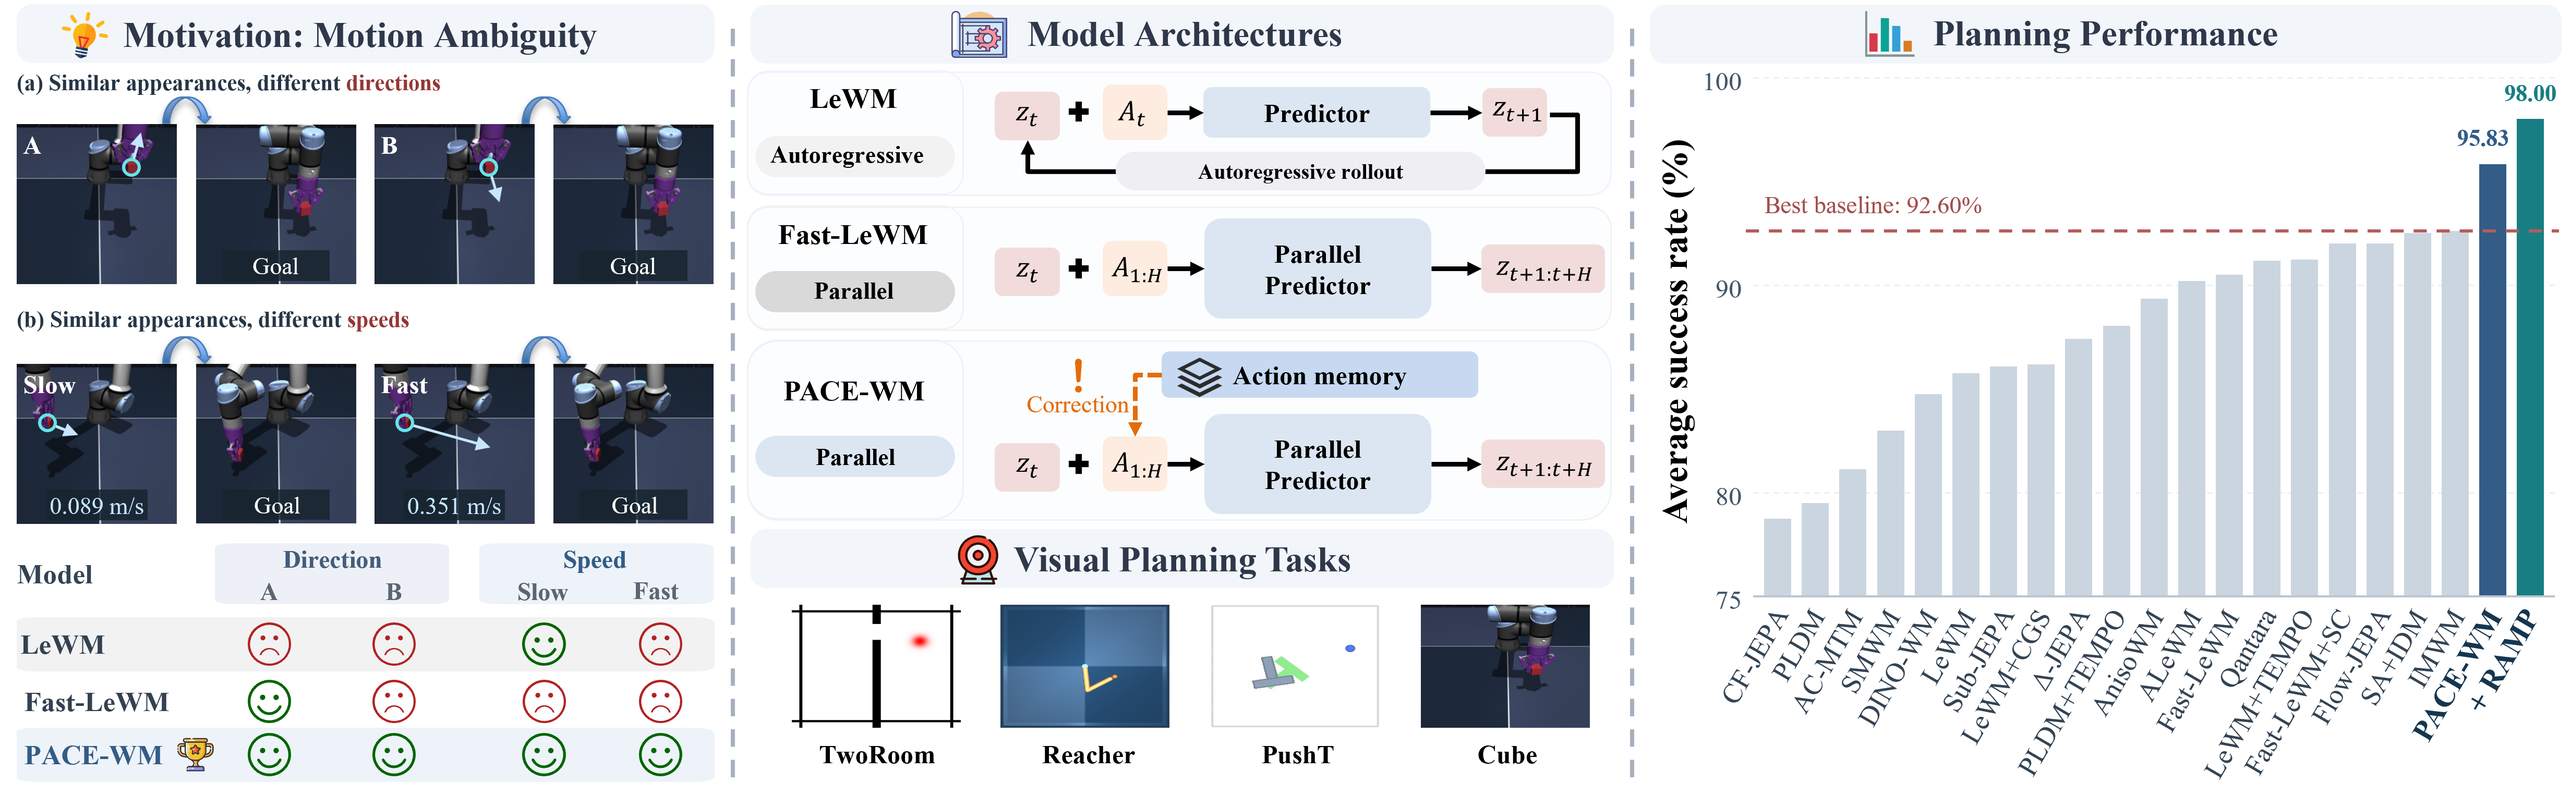
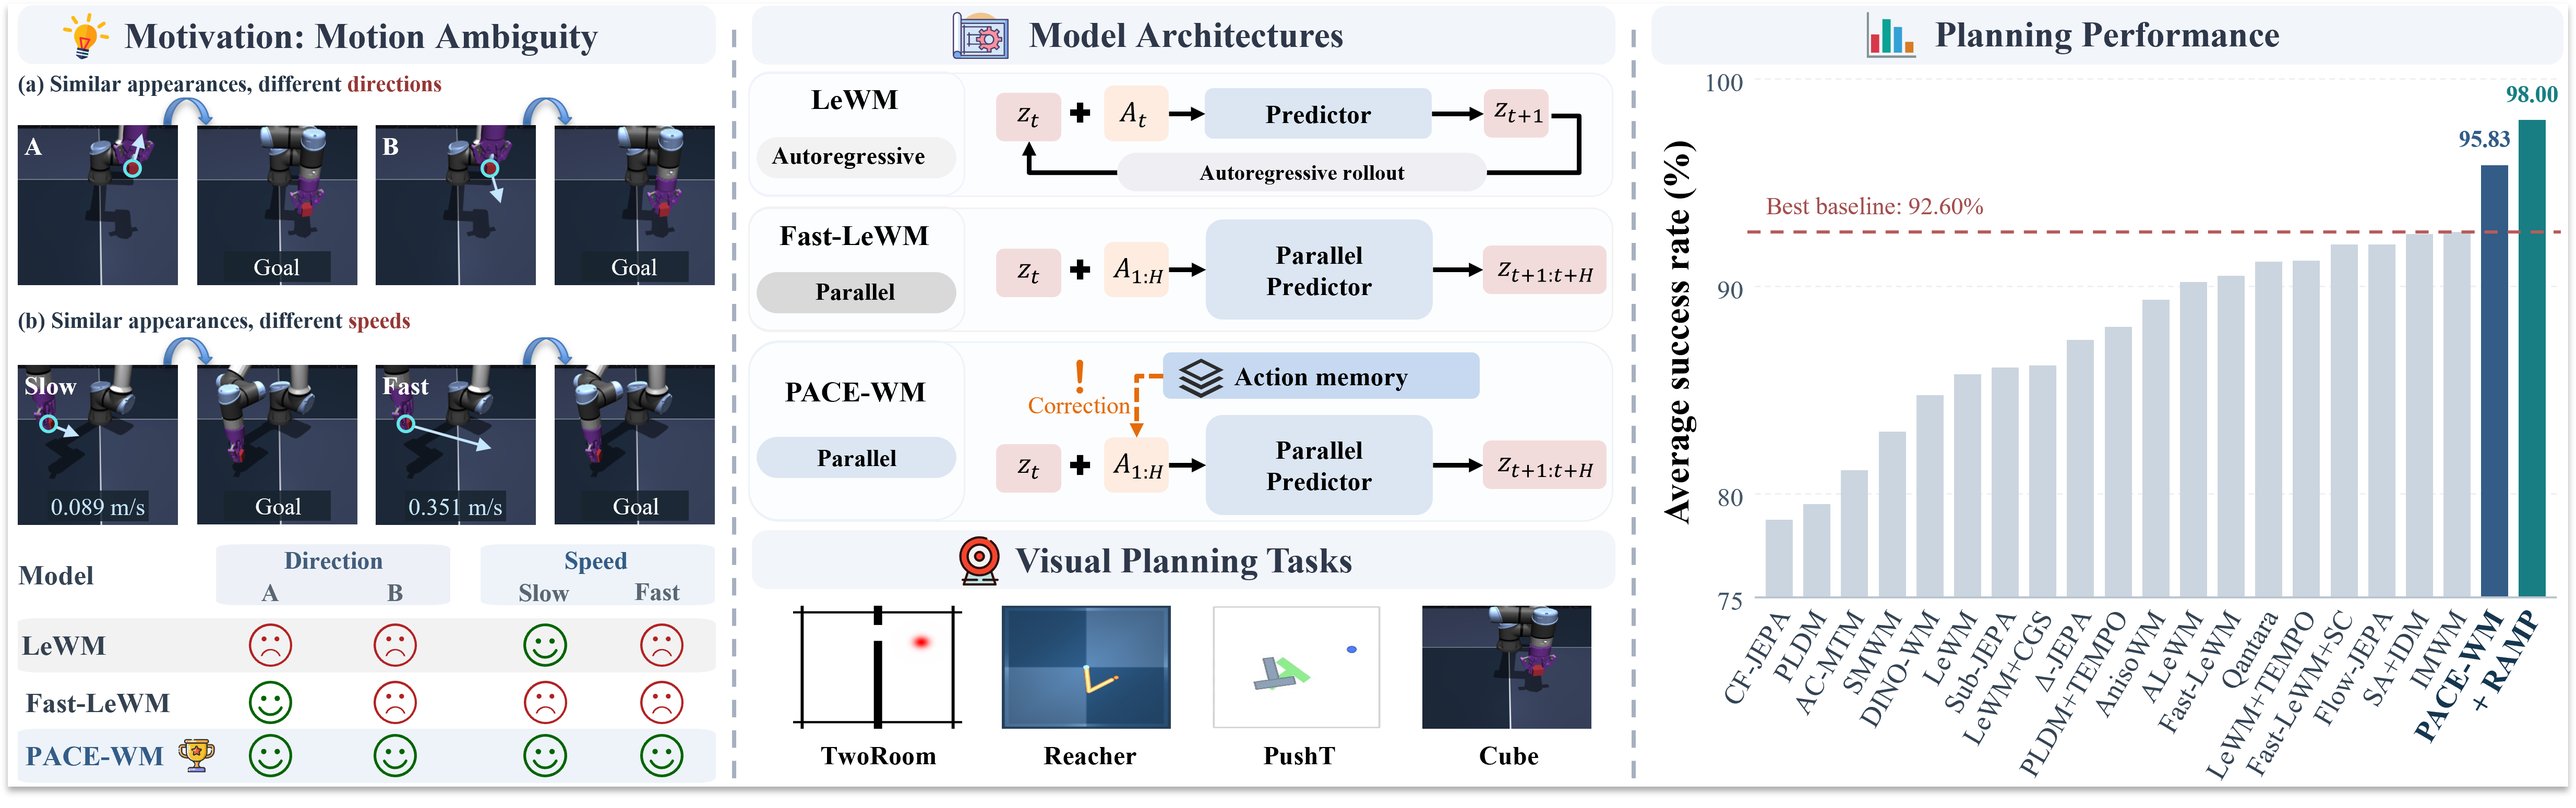
Update PACE-WM project

diff --git a/README.md b/README.md
@@ -1,27 +1,43 @@
 <p align="center">
+  <img src="assets/badges/paper.svg" alt="Paper: arXiv" title="arXiv link to be added">
   <a href="#release-status"><img src="assets/badges/code.svg" alt="Code: coming soon"></a>
 </p>
 
-<h1 align="center">PACE-WM:Parallel World Modeling with Action History for Visual Planning</h1>
-<p align="center">Executed-action memory for motion-aware visual planning.</p>
+<p align="center">
+  <img src="assets/logo.png" width="680" alt="PACE-WM: executed-action memory and parallel future prediction">
+</p>
+
+<h2 align="center">Parallel World Modeling with Action History for Visual Planning</h2>
+
+<p align="center">
+  Haishan Liu · Shijie Lian · Bin Yu · Yao Zhang · Changti Wu · Fanping Liu<br>
+  Jianzheng Liu · Lei Xie<sup>†</sup> · Cong Huang<sup>†</sup> · Kai Chen<sup>†</sup><br>
+  <sub>† Corresponding authors</sub>
+</p>
+
+<p align="center">Remember past actions. Predict future states in parallel. Plan toward the goal.</p>
+
 <p align="center">
   <a href="#overview">Overview</a> ·
   <a href="#method">Method</a> ·
   <a href="#visual-planning-demos">Demos</a> ·
   <a href="#results">Results</a> ·
   <a href="#controlled-benchmarks">Benchmarks</a> ·
+  <a href="#repository-contents">Contents</a> ·
   <a href="#release-status">Release Status</a>
 </p>
 
 ---
 
-<p align="center"><a href="assets/overview.png"><img src="assets/overview.png" width="100%" alt="PACE-WM overview: motion ambiguity, action memory, parallel prediction, and visual planning performance"></a></p>
-
 ## Overview
 
-Similar visual observations can conceal different motion states. **PACE-WM** uses the history of executed actions to provide dynamic context and predicts multiple future representations in parallel. **Reference-Anchored Minimum Progress (RAMP)** adds a goal-directed planning criterion based on direct and split predictions.
+Similar visual observations can conceal different motion states. **PACE-WM** summarizes executed actions into a persistent memory and uses this context to predict multiple future representations in parallel. **Reference-Anchored Minimum Progress (RAMP)** compares goal progress under direct and split predictions to score candidate action sequences.
 
 Across four visual planning tasks, PACE-WM achieves **95.83%** average success, increasing to **98.00%** with RAMP.
+
+<p align="center">
+  <a href="assets/overview.png"><img src="assets/overview.png" width="100%" alt="PACE-WM overview: motion ambiguity, executed-action memory, parallel prediction, and planning performance"></a>
+</p>
 
 ## Method
 
@@ -30,46 +46,67 @@ Across four visual planning tasks, PACE-WM achieves **95.83%** average success, 
 3. **Evaluate goal progress with RAMP.** Direct and split predictions measure candidate progress relative to their respective costs for a shared reference action sequence. At unit weight, RAMP maximizes the smaller predicted improvement.
 4. **Execute and update.** The controller executes the selected controls, updates its persistent action memory, and replans from the new observation.
 
-PACE-WM and PACE-WM + RAMP use the same trained model weights. RAMP changes the planning score without additional model training.
-
 ## Visual Planning Demos
 
 PACE-WM with RAMP in action across four visual planning tasks. Each animation shows the executed trajectory on the left and the goal image on the right.
 
 <table>
   <tr>
-    <th align="center">TwoRoom</th>
-    <th align="center">Reacher</th>
+    <th align="center" width="25%">TwoRoom</th>
+    <th align="center" width="25%">Reacher</th>
+    <th align="center" width="25%">PushT</th>
+    <th align="center" width="25%">Cube</th>
   </tr>
   <tr>
-    <td width="50%"><img src="assets/tworoom.gif" alt="PACE-WM + RAMP planning in TwoRoom: execution and goal" width="100%"></td>
-    <td width="50%"><img src="assets/reacher.gif" alt="PACE-WM + RAMP planning in Reacher: execution and goal" width="100%"></td>
-  </tr>
-  <tr>
-    <th align="center">PushT</th>
-    <th align="center">Cube</th>
-  </tr>
-  <tr>
-    <td width="50%"><img src="assets/pusht.gif" alt="PACE-WM + RAMP planning in PushT: execution and goal" width="100%"></td>
-    <td width="50%"><img src="assets/cube.gif" alt="PACE-WM + RAMP planning in Cube: execution and goal" width="100%"></td>
+    <td width="25%"><img src="assets/tworoom.gif" alt="PACE-WM + RAMP planning in TwoRoom: execution and goal" width="100%"></td>
+    <td width="25%"><img src="assets/reacher.gif" alt="PACE-WM + RAMP planning in Reacher: execution and goal" width="100%"></td>
+    <td width="25%"><img src="assets/pusht.gif" alt="PACE-WM + RAMP planning in PushT: execution and goal" width="100%"></td>
+    <td width="25%"><img src="assets/cube.gif" alt="PACE-WM + RAMP planning in Cube: execution and goal" width="100%"></td>
   </tr>
 </table>
 
-These clips illustrate individual episodes. Aggregate success rates are reported below.
-
 ## Results
 
-Main visual planning results from Table 1 of the paper. Success rates (%) are mean ± sample standard deviation across three training seeds. Avg. is the unweighted four-task mean.
+Visual planning success rates (%) from Table 1 of the paper. PACE-WM results report mean ± sample standard deviation across three training seeds.
 
 | Model | TwoRoom | Reacher | PushT | Cube | Avg. |
 | :--- | ---: | ---: | ---: | ---: | ---: |
+| LeWM | 87.00 | 86.00 | 96.00 | 74.00 | 85.75 |
+| Fast-LeWM | 98.00 | 88.00 | 96.00 | 80.00 | 90.50 |
 | PACE-WM | **100.00** ± 0.00 | 92.67 ± 1.15 | 96.67 ± 2.31 | 94.00 ± 2.00 | 95.83 |
 | PACE-WM + RAMP | **100.00** ± 0.00 | **98.00** ± 0.00 | **98.00** ± 2.00 | **96.00** ± 0.00 | **98.00** |
 
-RAMP raises average success by **2.17 percentage points**, with gains on Reacher, PushT, and Cube while maintaining **100.00%** on TwoRoom.
+## Controlled Benchmarks
+
+We construct four controlled benchmarks to evaluate how executed-action history helps resolve motion ambiguity, account for ongoing motion relative to the goal, and adapt to goal changes.
+
+| Benchmark | What it examines |
+| :--- | :--- |
+| **Direction ambiguity** | Distinguishing motion directions under similar visual appearances. |
+| **Speed ambiguity** | Handling different speeds under similar visual appearances. |
+| **Goal-relative motion** | Planning when ongoing motion approaches or moves away from the goal. |
+| **Goal switching** | Adapting to a changed goal while retaining the executed-action history. |
+
+## Repository Contents
+
+```text
+PACE-WM/
+├── README.md
+├── .gitignore
+└── assets/
+    ├── logo.png
+    ├── overview.png
+    ├── tworoom.gif
+    ├── reacher.gif
+    ├── pusht.gif
+    ├── cube.gif
+    └── badges/
+        ├── code.svg
+        └── paper.svg
+```
 
 ## Release Status
 
-This repository currently provides the project overview, results, and demonstration GIFs. **Code are coming soon.** Installation, training, and evaluation instructions will accompany the code release.
+**Code is coming soon.** This repository currently contains the project overview, results, and demonstration GIFs.
 
 For questions or documentation corrections, please [open an issue](https://github.com/LHS180/PACE-WM/issues).
